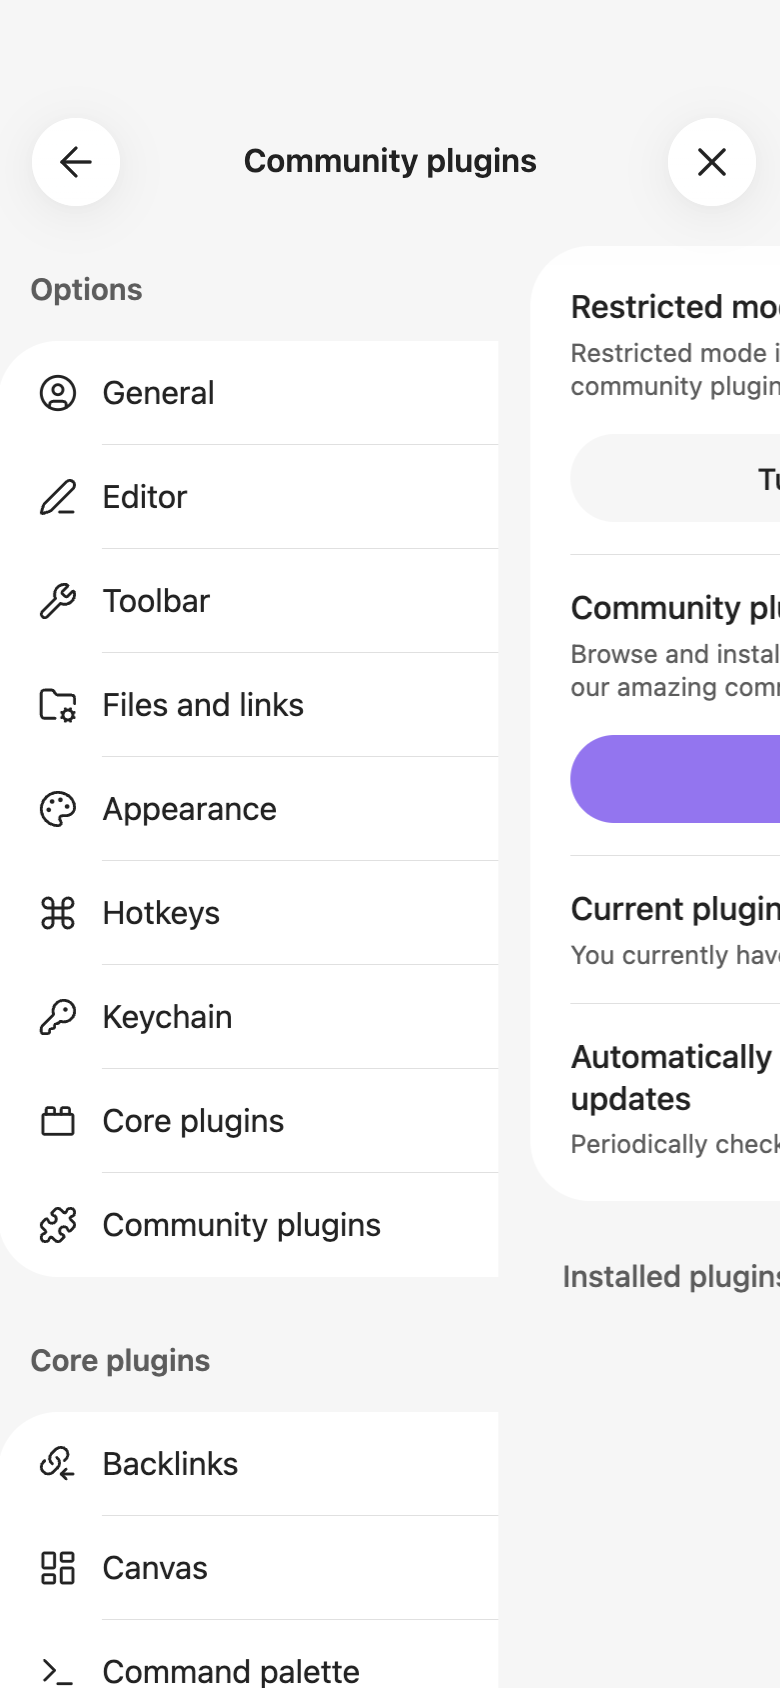
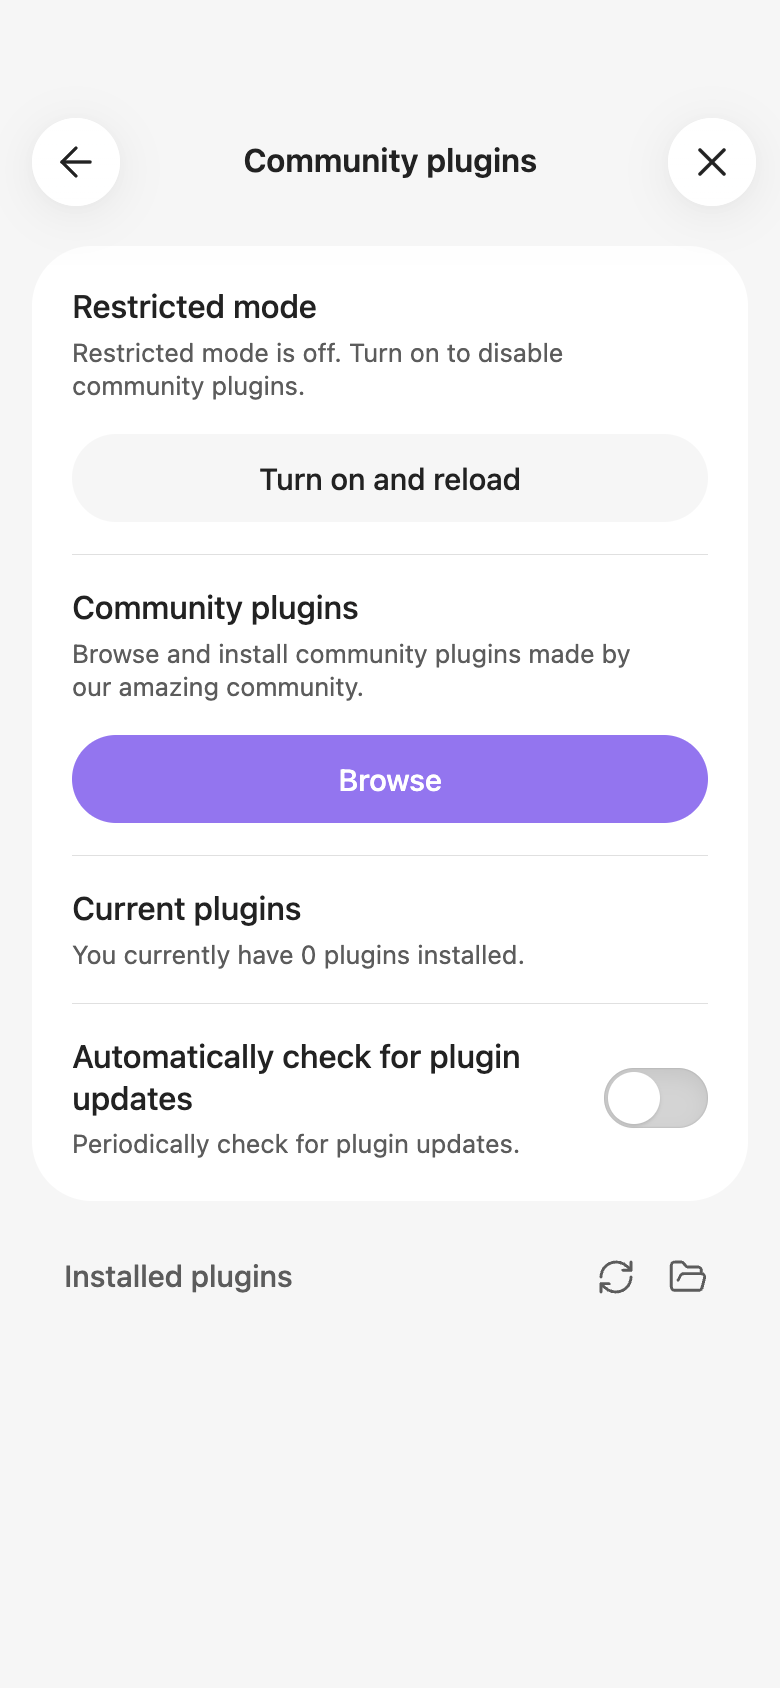
docs(#277): recapture every screenshot, and fix three claims the frames disproved
The first pass verified each screen by reading its DOM text and never
opened the PNGs. Every DOM read was correct and three of five images were
still wrong: the Restricted Mode CTA sliced off the bottom edge, the
settings drawer overlaying the content pane mid-transition, and the
add-beta-plugin frame catching Obsidian's empty New tab view because the
modal was still animating in. All three would have shipped under captions
describing something the reader could not see.

Recaptured with the target's geometry and settle state asserted before
each frame, and each file checked afterwards. The vault was reset to
Restricted Mode with zero plugins first, so the second shot shows the '0
plugins installed' state a newcomer actually sees.

Looking at the frames also disproved three claims in the copy:

- Auto-update plugins at startup ships on (updateAtStartup: true); the
  page said to turn it on
- the version control opens on 'Select a version', not 'Latest version'
  (selectLatestPluginVersionByDefault is false), so it must be chosen
- BRAT's placeholder models a full GitHub URL and accepts one, so the
  warning that a URL is the usual mistake was inventing a problem

The solutions entry carried the same bad advice — read the DOM instead of
opening the image — and now says why those are different questions.

diff --git a/www/dist/setup.html b/www/dist/setup.html
@@ -137,11 +137,13 @@
             <span class="mono">taihartman/obsidian-atoms</span>
           </p>
           <p>
-            That is an owner and repository name, not a web address — a full
-            GitHub URL is the usual thing to get wrong here. Leave the version on
-            <strong>Latest version</strong>, ignore the optional GitHub token,
-            leave <strong>Enable after installing the plugin</strong> ticked, and
-            press <strong>Add plugin</strong>.
+            The field's own example shows a full GitHub address, and that form
+            works too — <span class="mono">owner/repository</span> is simply
+            less to type. Then open the version dropdown, which starts on
+            <strong>Select a version</strong>, and choose
+            <strong>Latest version</strong>. Ignore the optional GitHub token,
+            leave <strong>Enable after installing the plugin</strong> ticked,
+            and press <strong>Add plugin</strong>.
           </p>
 
           <figure class="shot">
@@ -153,7 +155,8 @@
               loading="lazy"
             />
             <figcaption>
-              Repository field, latest version, enable ticked. Add plugin.
+              Paste the repository, choose Latest version, leave the tick, then
+              Add plugin.
             </figcaption>
           </figure>
 
@@ -190,10 +193,13 @@
 
           <h3>Staying up to date</h3>
           <p>
-            Atoms ships often. In <strong>Settings → BRAT</strong>, turn on
-            <strong>Auto-update plugins at startup</strong> and you will get new
-            versions without thinking about it. Otherwise you can run BRAT's
-            <strong>Check for updates</strong> by hand whenever you feel like it.
+            Atoms ships often, and BRAT already handles it:
+            <strong>Auto-update plugins at startup</strong> is on by default
+            under <strong>Settings → BRAT</strong>, so new versions arrive the
+            next time Obsidian starts. There is nothing to switch on — just know
+            that is where it lives. If you would rather decide for yourself,
+            turn it off and run BRAT's <strong>Check for updates</strong> by
+            hand.
           </p>
 
           <figure class="shot">
@@ -205,7 +211,7 @@
               loading="lazy"
             />
             <figcaption>
-              Auto-update at startup is the setting worth turning on.
+              Auto-update at startup, already on. This is just where it lives.
             </figcaption>
           </figure>
         </section>

diff --git a/test/wwwPricing.test.ts b/test/wwwPricing.test.ts
@@ -510,10 +510,13 @@ describe("setup guide", () => {
     expect(setup).toContain("Turn on community plugins");
   });
 
-  it("gives the BRAT repository as owner/repo, the form the field accepts", () => {
+  it("gives the exact string to paste into BRAT", () => {
     expect(setup).toContain("taihartman/obsidian-atoms");
-    // A full URL is the common mistake, so the page must not model one.
-    expect(setup).not.toContain("https://github.com/taihartman/obsidian-atoms.git");
+    // BRAT's own placeholder models a full https://GitHub.com/... address and
+    // accepts it, so the page must not claim a URL is wrong — it only says the
+    // short form is less to type. A .git clone URL is a different thing and is
+    // not what the field wants.
+    expect(setup).not.toContain("obsidian-atoms.git");
   });
 
   it("publishes the same MCP connector URL the plugin hands out", () => {

diff --git a/docs/solutions/documentation-gaps/setup-docs-written-from-a-configured-machine.md b/docs/solutions/documentation-gaps/setup-docs-written-from-a-configured-machine.md
@@ -48,6 +48,17 @@ oversight, and it recurs in the same shape:
 - **A string quoted from memory** — this page's first draft said the palette command was
   "BRAT: Add a beta plugin for testing". It is actually "BRAT: Plugins: Add a beta plugin for
   testing (with or without version)". Caught only by asking the running app.
+- **A default asserted rather than read.** The draft told readers to *turn on* BRAT's
+  **Auto-update plugins at startup**; it ships on (`updateAtStartup: true`). It also said to leave
+  the version dropdown on **Latest version**, which is not where it starts —
+  `selectLatestPluginVersionByDefault` is `false`, so the control opens on "Select a version" and
+  the reader must actually choose. Telling someone to enable what is already enabled, or to leave
+  alone what they must change, both read as "this author did not run it."
+- **A warning invented to sound helpful.** The draft claimed a full GitHub URL was "the usual thing
+  to get wrong" in BRAT's repository field. BRAT's own placeholder is
+  `Repository (example: https://GitHub.com/githubusername/repository-name)` — it models the URL and
+  accepts it. A confident caution about a non-problem is worse than no caution: it costs the
+  reader trust in everything around it.
 
 The unifying property: **none of these can fail a build, and none can be caught by reading.** Tests
 were green throughout. Review cannot catch them either, because a reviewer is also someone who
@@ -74,9 +85,18 @@ Two mechanical notes that cost time here:
   `obsidian://open?path=`, `open -a Obsidian <folder>`, the same after seeding a `.obsidian/`
   directory, and injecting the entry straight into `obsidian.json` (the entry persists, but a
   running Obsidian holds its vault list in memory). Budget one human click, or reuse a vault.
-- **Screenshot the DOM's text, not the picture.** Reading pane contents through `eval` confirms
-  which screen a capture actually shows, at a fraction of the cost of opening the PNG — and it is
-  what turns "I think this says X" into a quotable string.
+- **Read the DOM to get the words right; open the image to check the frame. They are different
+  questions.** Reading pane text through `eval` is what turns "I think it says X" into a quotable
+  string, and it is cheap. It says nothing about what the camera caught. On the first pass here
+  every DOM read was correct and **three of five screenshots were still wrong** — a CTA sliced off
+  the bottom edge, a settings drawer overlaying the content pane mid-transition, and one frame that
+  captured Obsidian's empty "New tab" view because the modal was still animating in. All three
+  would have shipped under captions describing something the reader could not see.
+
+  So: assert the target's geometry before capturing (`getBoundingClientRect()` inside the viewport,
+  the tab list *not* present, an explicit `scrollTop`), give the UI a real settle delay after any
+  action that reloads or animates, and then **look at the file**. The cost of opening a PNG is
+  bounded and one-time; a wrong screenshot in a setup guide is unbounded and lands on every reader.
 
 Full observed walkthrough: `docs/qa/2026-08-04-setup-walkthrough-findings.md`.
 

diff --git a/docs/qa/2026-08-04-setup-walkthrough-findings.md b/docs/qa/2026-08-04-setup-walkthrough-findings.md
@@ -2,10 +2,19 @@
 
 **Date:** 2026-08-04
 **Vault:** `new vault/` (throwaway, gitignored) — genuinely empty, created via Obsidian's GUI
-**Obsidian:** 1.12.7 · **BRAT:** 2.2.0 · **Atoms installed:** 0.6.69
+**Obsidian:** 1.12.7 · **BRAT:** 2.2.0 · **Atoms installed:** 0.6.69, then 0.6.71 on the recapture
 **Screenshots:** `docs/qa/screenshots/setup-guide/` — 5 shots, all 780×1688 (390×844 @2x)
 
 Every label below is quoted from the live UI (read out of the DOM), not from memory.
+
+> **The screenshots were captured twice.** The first pass verified each screen by reading its DOM
+> text and did not open the resulting PNGs. Every DOM read was right and three of the five images
+> were still wrong: the Restricted Mode CTA was sliced off the bottom edge, the settings drawer
+> overlaid the content pane mid-transition, and the Add-beta-plugin frame caught Obsidian's empty
+> "New tab" view because the modal was still animating in. The second pass asserts the target's
+> geometry and settle state before capturing, and checks the file afterwards. The vault was reset
+> to Restricted Mode and zero plugins first, so shot 02 shows the "0 plugins installed" state a
+> newcomer actually sees rather than a vault with Atoms already in it.
 
 ---
 
@@ -63,9 +72,24 @@ thing, so the guide should mirror it exactly:
 The value to paste is `taihartman/obsidian-atoms` — owner/repo, not a URL. Leave version at
 **Latest version**; the GitHub token is optional and irrelevant for a public repo.
 
-**E · Updates come from a BRAT toggle, not a manual chore.** BRAT ships **Auto-update plugins
-at startup**. README currently tells users to run **Check for updates** by hand after each
-release. Recommending the toggle is strictly better guidance for a newcomer.
+**E · Updates already happen; nothing needs switching on.** BRAT ships with
+`updateAtStartup: true` — **Auto-update plugins at startup** is on out of the box. The README
+tells users to run **Check for updates** by hand after each release, which is the manual
+fallback, not the default behaviour. Read from a fresh BRAT 2.2.0 install:
+
+| BRAT setting | Ships as |
+|---|---|
+| `enableAfterInstall` (Auto-enable plugins after installation) | `true` |
+| `updateAtStartup` (Auto-update plugins at startup) | `true` |
+| `selectLatestPluginVersionByDefault` | **`false`** |
+
+That last one matters for the copy: the Add-plugin dialog's version control opens on
+**Select a version**, not on **Latest version**, so the reader has to choose it.
+
+**E2 · BRAT's repository field models a full URL and accepts one.** Its placeholder is
+`Repository (example: https://GitHub.com/githubusername/repository-name)`. Both that and the
+short `owner/repository` form work — `addPlugin("taihartman/obsidian-atoms")` installed cleanly.
+Any copy warning that a URL is "wrong" is inventing a problem.
 
 **F · The one-tap iOS path is inside the plugin.** Settings → Atoms → Capture has an **Install
 Capture Atom** button ("Install or update Capture Atom, the iOS shortcut (v2.0.0). Opens your
